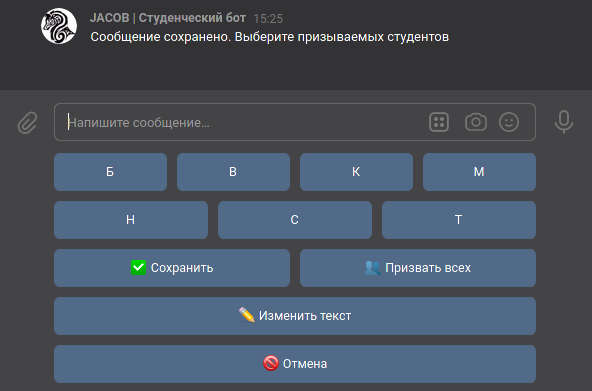
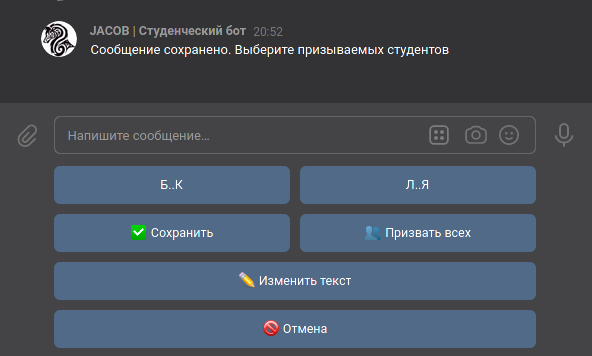
Deployed bca826c with MkDocs version: 1.1.2

diff --git a/functions/settings/index.html b/functions/settings/index.html
@@ -494,10 +494,10 @@
 <p><span class="twemoji"><svg xmlns="http://www.w3.org/2000/svg" viewBox="0 0 24 24"><path d="M10 4a4 4 0 00-4 4 4 4 0 004 4 4 4 0 004-4 4 4 0 00-4-4m7 8a.26.26 0 00-.26.21l-.19 1.32c-.3.13-.59.29-.85.47l-1.24-.5c-.11 0-.24 0-.31.13l-1 1.73c-.06.11-.04.24.06.32l1.06.82a4.193 4.193 0 000 1l-1.06.82a.26.26 0 00-.06.32l1 1.73c.06.13.19.13.31.13l1.24-.5c.26.18.54.35.85.47l.19 1.32c.02.12.12.21.26.21h2c.11 0 .22-.09.24-.21l.19-1.32c.3-.13.57-.29.84-.47l1.23.5c.13 0 .26 0 .33-.13l1-1.73a.26.26 0 00-.06-.32l-1.07-.82c.02-.17.04-.33.04-.5 0-.17-.01-.33-.04-.5l1.06-.82a.26.26 0 00.06-.32l-1-1.73c-.06-.13-.19-.13-.32-.13l-1.23.5c-.27-.18-.54-.35-.85-.47l-.19-1.32A.236.236 0 0019 12h-2m-7 2c-4.42 0-8 1.79-8 4v2h9.68a7 7 0 01-.68-3 7 7 0 01.64-2.91c-.53-.06-1.08-.09-1.64-.09m8 1.5c.83 0 1.5.67 1.5 1.5s-.67 1.5-1.5 1.5c-.84 0-1.5-.67-1.5-1.5s.67-1.5 1.5-1.5z"/></svg></span> Нужен доступ администратора</p>
 <p>В этом меню вы можете подключить необходимые для работы бота чаты, причем они будут сохранены именно в вашей группе и не будут доступны никому другому</p>
 <p><img align="center" alt="List of Chats" src="../../assets/settings/1.png" /></p>
-<p>Главное меню Настройки Чатов отображает список подключенных к вашей группе чатов. Если в группе не настроено оба чата (основной и тестовый), отображается кнопка {Зарегистрировать чат}</p>
+<p>Главное меню Настройки Чатов отображает список подключенных к вашей группе чатов. Так же отображается кнопка {Зарегистрировать чат}</p>
 <h3 id="_3">Регистрация чатов</h3>
 <p>Здесь можно прикрепить чат к вашей группе. Для этого бот пришлёт кодовую фразу. Её нужно отправить в чат, который вы хотите прикрепить.<br />
-Чтобы бот получил событие о сообщении с кодовой фразой, он должен иметь права администратора или полный доступ к переписке. Либо вы можете упомянуть бота в сообщении с кодовой фразой, добавив <code>@jacob_bot</code></p>
+Чтобы бот получил событие о сообщении с кодовой фразой, он должен иметь права администратора или полный доступ к переписке.</p>
 <h3 id="_4">Меню чата</h3>
 <p><img align="center" alt="Chat menu" src="../../assets/settings/2.png" /></p>
 <h4 id="_5">Отключение чата</h4>
@@ -513,7 +513,7 @@
 <div class="md-source-date">
   <small>
     
-      Последнее обновление: <span class="git-revision-date-localized-plugin git-revision-date-localized-plugin-timeago"><span class="timeago" datetime="2020-09-16T19:45:44+00:00" locale="ru"></span></span><span class="git-revision-date-localized-plugin git-revision-date-localized-plugin-iso_date">2020-09-16</span>
+      Последнее обновление: <span class="git-revision-date-localized-plugin git-revision-date-localized-plugin-timeago"><span class="timeago" datetime="2020-10-26T18:02:28+00:00" locale="ru"></span></span><span class="git-revision-date-localized-plugin git-revision-date-localized-plugin-iso_date">2020-10-26</span>
     
   </small>
 </div>

diff --git a/functions/call/index.html b/functions/call/index.html
@@ -434,11 +434,12 @@
 <p>Вам предложать ввести текст, который должен сопровождать Призыв и прикрепить вложения <em>(сейчас поддерживаются фотографии, документы, граффити и голосовые сообщения)</em><br />
 Вы можете также пропустить ввод сообщения и отправить только упоминания, нажав на кнопку {<img alt="⏩" class="twemoji" src="https://twemoji.maxcdn.com/v/latest/svg/23e9.svg" title=":fast_forward:" /> Пропустить}</p>
 <p><img align="center" alt="Call menu" src="../../assets/call/3.png" /></p>
-<p>Далее откроется меню Призыва. Здесь можно выбрать студентов для призыва (все студенты находятся в подменю по первым буквам их фамилий), выбрать всех студентов для Призыва, сохранить или отменить Призыв, изменить текст призыва<br />
-Выберите студентов для Призыва и нажмите кнопку {<img alt="✅" class="twemoji" src="https://twemoji.maxcdn.com/v/latest/svg/2705.svg" title=":white_check_mark:" /> Сохранить}, чтобы настроить и подтвердить Призыв</p>
-<p><img align="center" alt="Call menu" src="../../assets/call/3_1.png" /></p>
-<p>Когда количество уникальных первых букв фамилий превышает 15 вместо списка букв отображается список из двух диапазонов букв, при нажатии на который открывается список из букв в этом диапазоне. В остальном такой вариант раскладки ничем не отличается от стандартного. </p>
-<p><img align="center" alt="Submenu" src="../../assets/call/3_2.png" /></p>
+<p>Далее откроется меню Призыва. Здесь можно:
+- выбрать студентов для Призыва (все студенты находятся в подменю по первым буквам их фамилий),
+- выбрать всех студентов для Призыва
+- сохранить Призыв
+- отменить Призыв
+- изменить текст Призыва</p>
 <p><img align="center" alt="Submenu" src="../../assets/call/4.png" /></p>
 <p><img align="center" alt="Submenu" src="../../assets/call/5.png" /></p>
 <p>Когда студент добавлен в список Призыва, возле его имени появляется галочка (<img alt="✅" class="twemoji" src="https://twemoji.maxcdn.com/v/latest/svg/2705.svg" title=":white_check_mark:" />) </p>
@@ -455,7 +456,7 @@
 <div class="md-source-date">
   <small>
     
-      Последнее обновление: <span class="git-revision-date-localized-plugin git-revision-date-localized-plugin-timeago"><span class="timeago" datetime="2020-10-22T14:55:42+00:00" locale="ru"></span></span><span class="git-revision-date-localized-plugin git-revision-date-localized-plugin-iso_date">2020-10-22</span>
+      Последнее обновление: <span class="git-revision-date-localized-plugin git-revision-date-localized-plugin-timeago"><span class="timeago" datetime="2020-10-26T17:59:24+00:00" locale="ru"></span></span><span class="git-revision-date-localized-plugin git-revision-date-localized-plugin-iso_date">2020-10-26</span>
     
   </small>
 </div>
